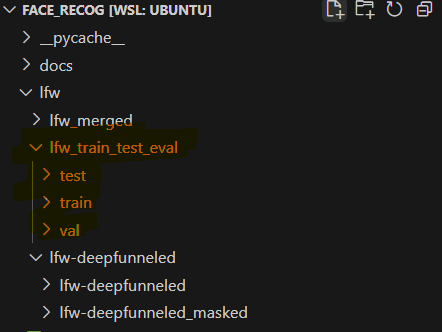
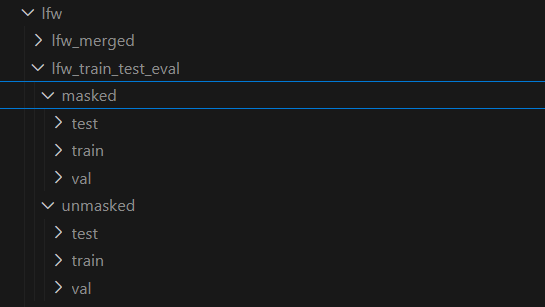
masked vs unmasked training and eval

diff --git a/lfw_data_split.py b/lfw_data_split.py
@@ -2,7 +2,9 @@ import os
 import shutil
 import random
 from tqdm import tqdm
-from config import INPUT_MERGED_DATASET, OUTPUT_SPLIT_PATH
+from config import MASKED_AND_UNMASKED_MERGED_PATH, UNMASKED_DATASET_SPLIT_PATH,MASKED_DATASET_SPLIT_PATH,UNMASKED_LFW_PATH
+import argparse
+import sys
 
 def clean_output_directory(output_root):
     """
@@ -42,7 +44,17 @@ def split_by_identity(input_path, output_root, train_ratio=0.7, val_ratio=0.15, 
 
 # === USAGE EXAMPLE ===
 
-# Clean the output directory before splitting
-clean_output_directory(OUTPUT_SPLIT_PATH)
-
-split_by_identity(INPUT_MERGED_DATASET, OUTPUT_SPLIT_PATH)
+parser = argparse.ArgumentParser(description="Split LFW dataset by identity.")
+parser.add_argument(
+    "--datasetType",
+    choices=["masked", "unmasked"],
+    help="Type of dataset to split: 'masked' or 'unmasked'"
+)
+args = parser.parse_args()
+datasetType = args.datasetType.lower()
+if datasetType == "masked":
+    clean_output_directory(MASKED_DATASET_SPLIT_PATH)
+    split_by_identity(MASKED_AND_UNMASKED_MERGED_PATH, MASKED_DATASET_SPLIT_PATH)
+elif datasetType == "unmasked":
+    clean_output_directory(UNMASKED_DATASET_SPLIT_PATH)
+    split_by_identity(UNMASKED_LFW_PATH, UNMASKED_DATASET_SPLIT_PATH)

diff --git a/config.py b/config.py
@@ -3,15 +3,17 @@ BASEPATH = '/root/face_recog/lfw/'
 
 # Paths for dataset merging
 # this is the path to the lfw-deepfunneled dataset inside lfw folder
-ORIGINAL_LFW_PATH = BASEPATH + 'lfw-deepfunneled/lfw-deepfunneled'
+UNMASKED_LFW_PATH = BASEPATH + 'lfw-deepfunneled/lfw-deepfunneled'
 # this is the path to the dataset with the masks
 MASKED_LFW_PATH = BASEPATH + 'lfw-deepfunneled/lfw-deepfunneled_masked'
 # this is the path of the merged dataset
-OUTPUT_MERGED_PATH = BASEPATH + 'lfw_merged'
+MASKED_AND_UNMASKED_MERGED_PATH = BASEPATH + 'lfw_merged'
 
 # Paths for dataset splitting
-INPUT_MERGED_DATASET = BASEPATH + 'lfw_merged'
-OUTPUT_SPLIT_PATH = BASEPATH + 'lfw_train_test_eval'
+UNMASKED_DATASET_SPLIT_PATH = BASEPATH + 'lfw_train_test_eval/unmasked'
+MASKED_DATASET_SPLIT_PATH = BASEPATH + 'lfw_train_test_eval/masked'
+
+
 
 # Paths for training and evaluation
 DATASET_ROOT = BASEPATH + 'lfw_train_test_eval'

diff --git a/lfw_merger.py b/lfw_merger.py
@@ -1,7 +1,7 @@
 import os
 import shutil
 from tqdm import tqdm
-from config import ORIGINAL_LFW_PATH, MASKED_LFW_PATH, OUTPUT_MERGED_PATH
+from config import UNMASKED_LFW_PATH, MASKED_LFW_PATH, MASKED_AND_UNMASKED_MERGED_PATH
 
 def merge_lfw_datasets(original_path, masked_path, output_path):
     if os.path.exists(output_path):
@@ -37,4 +37,4 @@ def merge_lfw_datasets(original_path, masked_path, output_path):
 
 # === USAGE EXAMPLE ===
 
-merge_lfw_datasets(ORIGINAL_LFW_PATH, MASKED_LFW_PATH, OUTPUT_MERGED_PATH)
+merge_lfw_datasets(UNMASKED_LFW_PATH, MASKED_LFW_PATH, MASKED_AND_UNMASKED_MERGED_PATH)

diff --git a/readme.md b/readme.md
@@ -99,7 +99,8 @@ We had to use **Python version 3.6.15** only to compile the `dlib` library so th
 4. **Split the Dataset**
    - Run the following script:
      ```bash
-     python lfw_data_split.py
+      python lfw_data_split.py --datasetType masked // for splitting the masked dataset
+       python lfw_data_split.py --datasetType unmasked // for splitting the original lfw dataset
      ```
    - This will create an `lfw_train_test_eval` directory under [lfw](http://_vscodecontentref_/5).
 
@@ -108,7 +109,7 @@ We had to use **Python version 3.6.15** only to compile the `dlib` library so th
 5. **Train the Model**
    - Run the following command:
      ```bash
-     python arcface_train.py --epochs 5 --data_dir "/root/face_recog/lfw/lfw_train_test_eval" --dataset_type "masked_lfw"
+      python arcface_train.py --epochs 5 --data_dir "/root/face_recog/lfw/lfw_train_test_eval/masked" --dataset_type masked_lfw
      ```
    - Customize the `--epochs` argument to values like `10`, `15`, `30`, or `50`.
 
